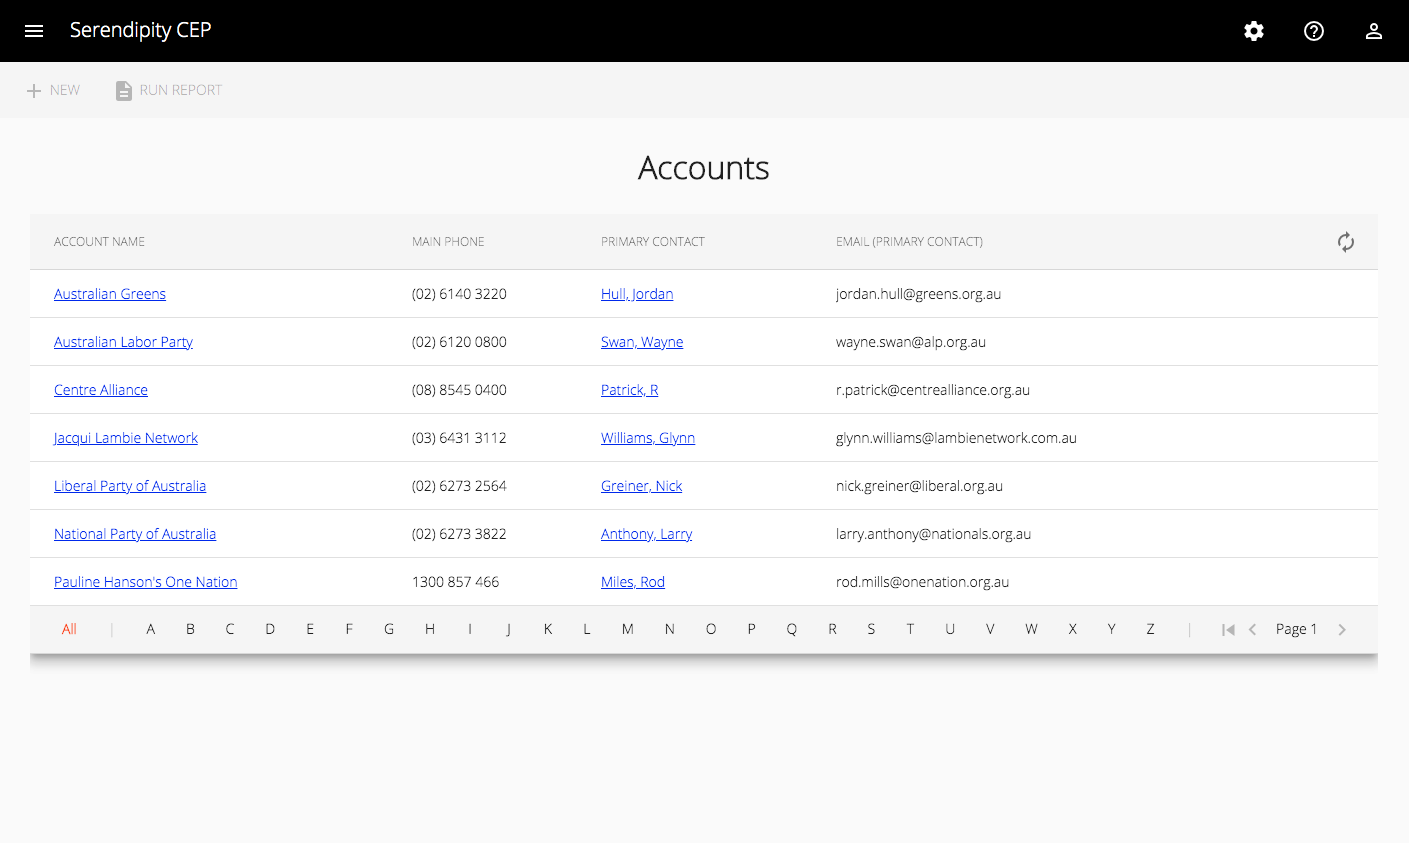
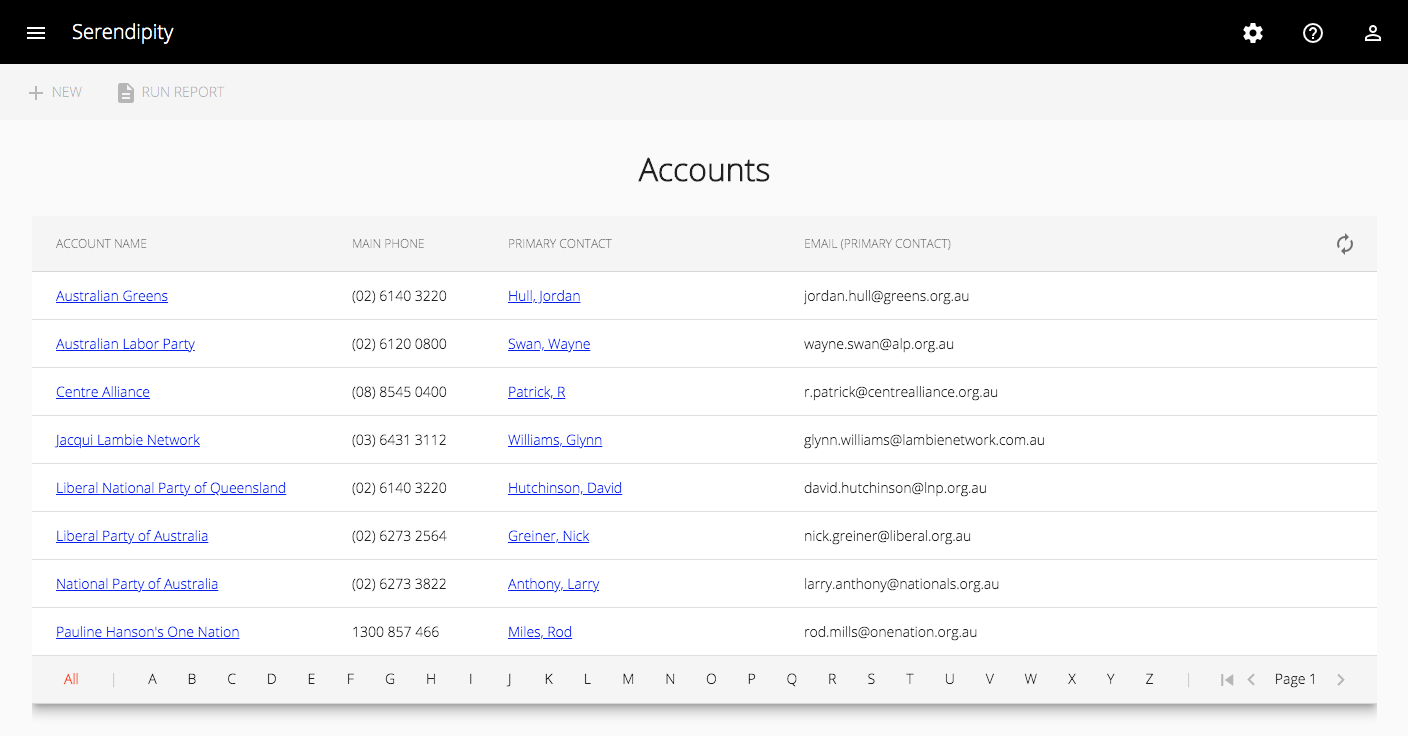
Updated the Developer docs

diff --git a/src/app/core/components/nav/nav.component.ts b/src/app/core/components/nav/nav.component.ts
@@ -19,8 +19,13 @@ interface SideNavRoute {
   title?: string;
 }
 
+const MY_WORK_ROUTES = 'my-work-routes';
+const CUSTOMER_ROUTES = 'customer-routes';
+const SALES_ROUTES = 'sales-routes';
+const TOOLS_ROUTES = 'tools-routes';
+
 @Component({
-  selector: 'app-nav',
+  selector: 'crm-nav',
   templateUrl: './nav.component.html',
   styleUrls: ['./nav.component.scss']
 })
@@ -31,6 +36,8 @@ export class NavComponent implements OnInit, OnDestroy {
 
   public myWorkRoutes: SideNavRoute[];
   public customerRoutes: SideNavRoute[];
+  public salesRoutes: SideNavRoute[];
+  public toolsRoutes: SideNavRoute[];
 
   public toolPaletteItems: ToolPaletteItem[];
 
@@ -56,7 +63,7 @@ export class NavComponent implements OnInit, OnDestroy {
 
   async loadNavListItems() {
 
-    this.myWorkRoutes = await this.configService.get('my-work-routes');
+    this.myWorkRoutes = await this.configService.get(MY_WORK_ROUTES);
 
     this.myWorkRoutes.forEach(route => {
 
@@ -66,9 +73,29 @@ export class NavComponent implements OnInit, OnDestroy {
 
     });
 
-    this.customerRoutes = await this.configService.get('customer-routes');
+    this.customerRoutes = await this.configService.get(CUSTOMER_ROUTES);
 
     this.customerRoutes.forEach(route => {
+
+      this.translate.get(route.title).subscribe(value => {
+        route.title = value;
+      });
+
+    });
+
+    this.salesRoutes = await this.configService.get(SALES_ROUTES);
+
+    this.salesRoutes.forEach(route => {
+
+      this.translate.get(route.title).subscribe(value => {
+        route.title = value;
+      });
+
+    });
+
+    this.toolsRoutes = await this.configService.get(TOOLS_ROUTES);
+
+    this.toolsRoutes.forEach(route => {
 
       this.translate.get(route.title).subscribe(value => {
         route.title = value;

diff --git a/src/app/core/components/nav/nav.component.html b/src/app/core/components/nav/nav.component.html
@@ -11,11 +11,12 @@
       </mat-toolbar-row>
     </mat-toolbar>
 
+    <!-- <mat-nav-list dense> -->
     <mat-nav-list>
 
       <ng-container *ngIf="myWorkRoutes">
 
-        <h2 matSubheader> {{ 'MY_WORK' | translate }} </h2>
+        <h2 matSubheader> {{ 'MY_WORK_SUB_HEADER' | translate }} </h2>
 
         <a mat-list-item routerLink="/" style="height: 0;"></a>
 
@@ -28,15 +29,36 @@
           {{item.title}}
         </a>
 
-        <mat-divider></mat-divider>
+        <!-- <mat-divider></mat-divider> -->
 
       </ng-container>
 
       <ng-container *ngIf="customerRoutes">
 
-        <h2 matSubheader> {{ 'CUSTOMERS' | translate }} </h2>
+        <h2 matSubheader> {{ 'CUSTOMERS_SUB_HEADER' | translate }} </h2>
 
         <a *ngFor="let item of customerRoutes"
+           mat-list-item
+           (click)="navigationSidenav.close()"
+           [routerLink]="[item.route]"
+           routerLinkActive="list-item-active">
+          <mat-icon matListIcon class="nav-list-icon"> {{ item.icon }} </mat-icon>
+          {{item.title}}
+        </a>
+
+        <!-- <mat-divider></mat-divider> -->
+
+      </ng-container>
+
+      <h2 matSubheader> {{ 'SALES_SUB_HEADER' | translate }} </h2>
+      <h2 matSubheader> {{ 'COLLATERAL_SUB_HEADER' | translate }} </h2>
+      <h2 matSubheader> {{ 'MARKETING_SUB_HEADER' | translate }} </h2>
+
+      <ng-container *ngIf="toolsRoutes">
+
+        <h2 matSubheader> {{ 'TOOLS_SUB_HEADER' | translate }} </h2>
+
+        <a *ngFor="let item of toolsRoutes"
            mat-list-item
            (click)="navigationSidenav.close()"
            [routerLink]="[item.route]"

diff --git a/src/app/app-routing.module.ts b/src/app/app-routing.module.ts
@@ -64,13 +64,20 @@ const routes: Routes = [
     runGuardsAndResolvers: 'always'
   },
 
+  {
+    path: 'reports',
+    component: PlaceholderComponent,
+    canActivate: [AuthGuard],
+    runGuardsAndResolvers: 'always'
+  },
+
   //
   // The Wildcard route
   //
 
   {
     path: '**',
-    redirectTo: 'leads'
+    redirectTo: 'reports'
   }
 
 ];

diff --git a/src/app/app.component.html b/src/app/app.component.html
@@ -5,4 +5,4 @@
 
 -->
 
-<app-nav></app-nav>
+<crm-nav></crm-nav>

diff --git a/README.md b/README.md
@@ -2,7 +2,7 @@
   <img src="./serendipity-logo.svg" alt="Serendipity" width="400"/>
 </p>
 
-<h1 align="center">Serendipity CEP</h1>
+<h1 align="center">Serendipity</h1>
 
 <p align="center">
   <b>Serendipity is an open source Customer Engagement Platform.</b></br>
